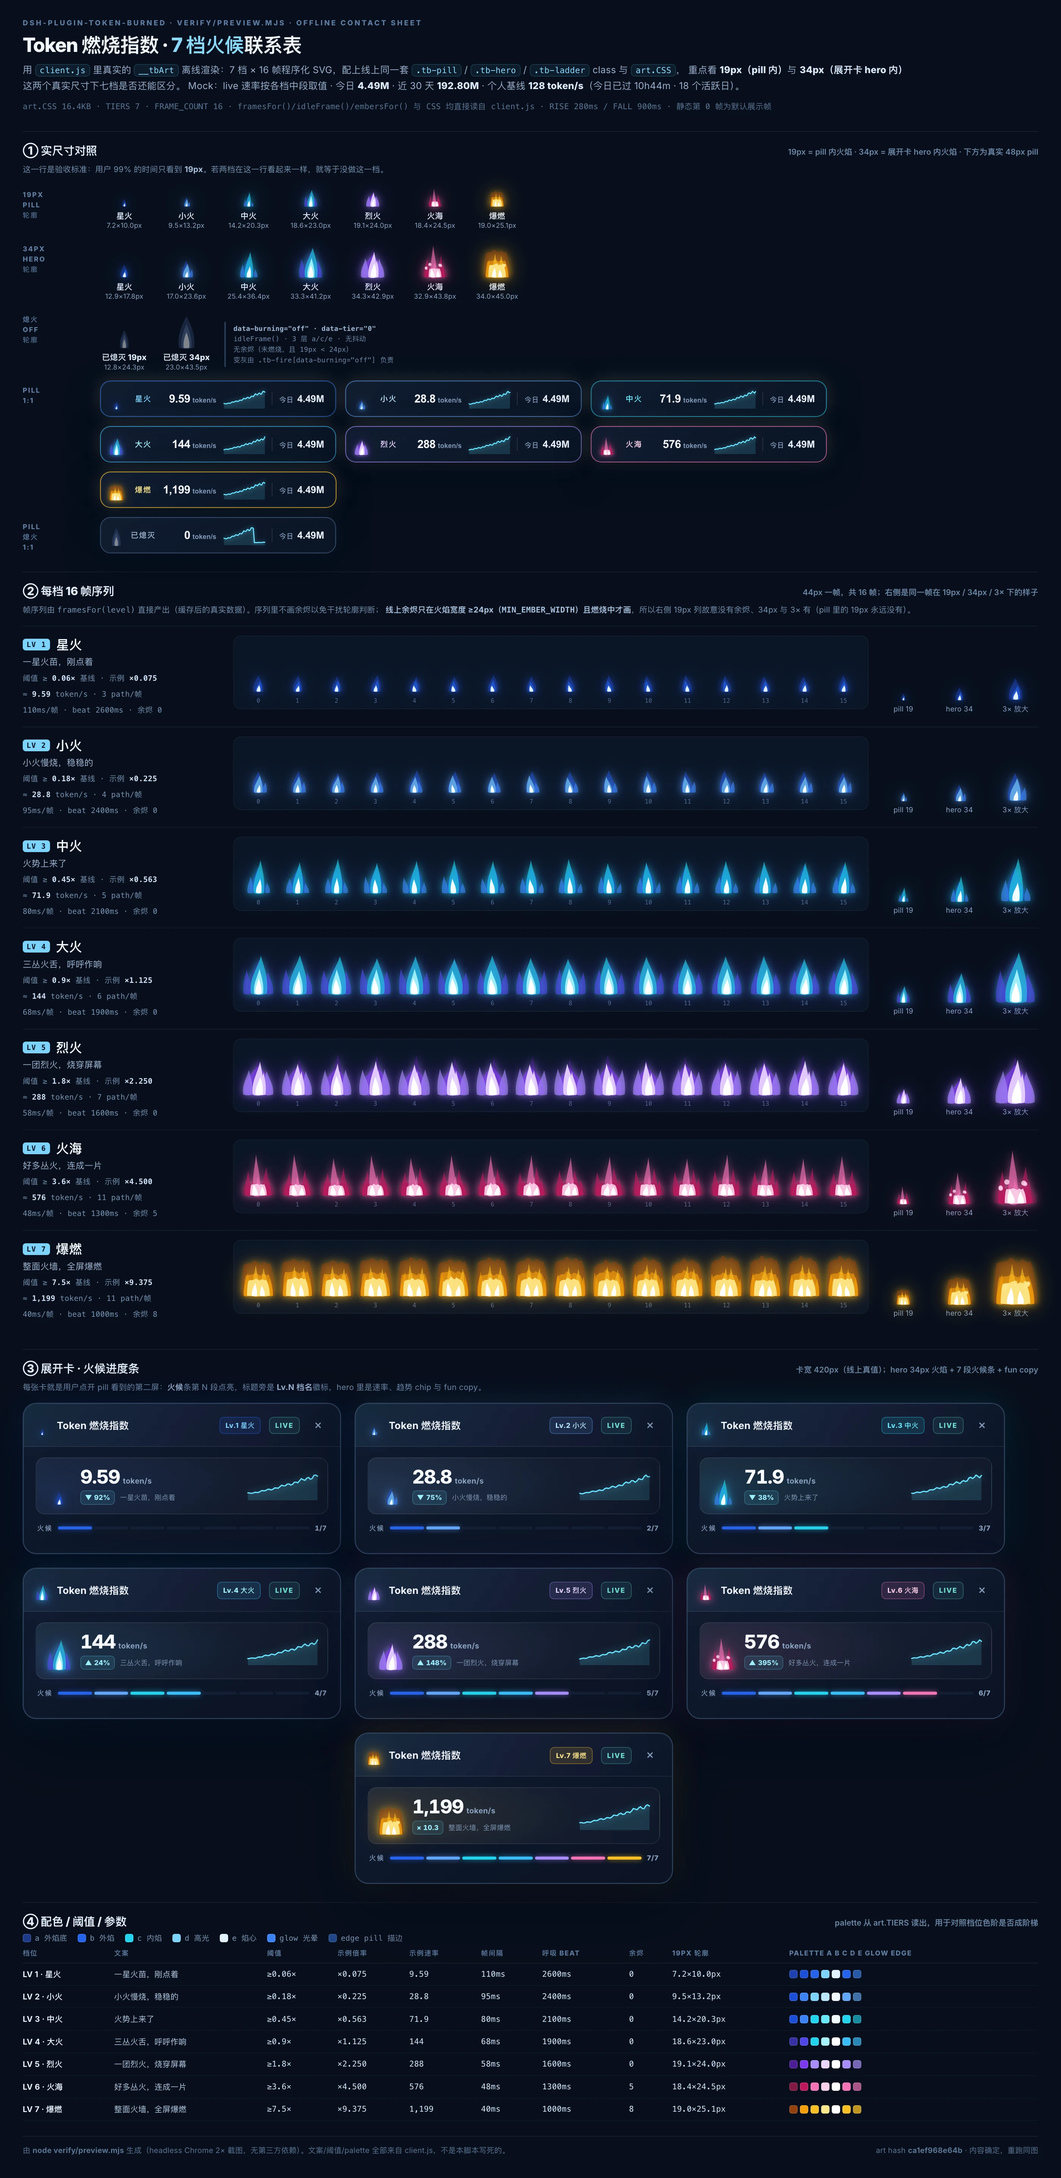
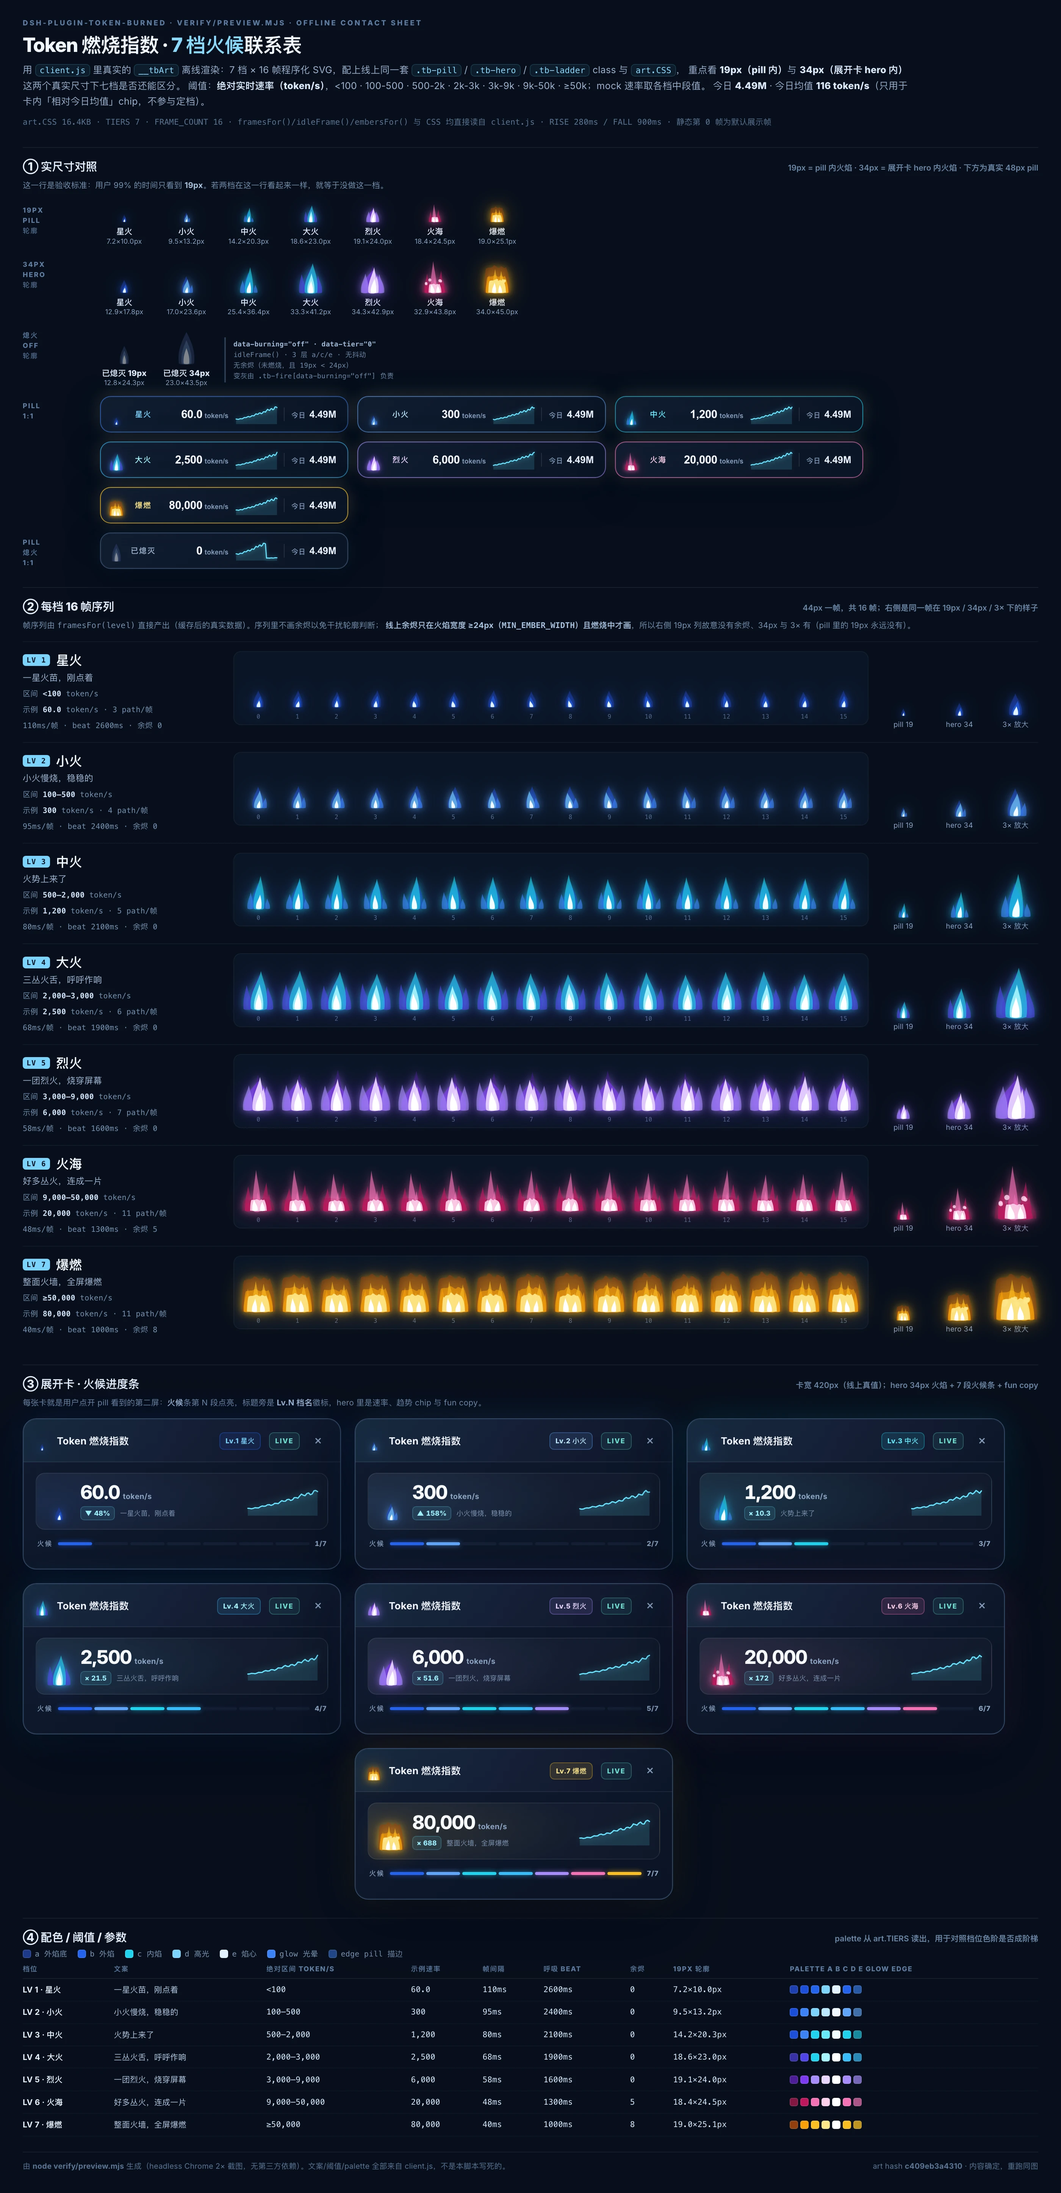
feat: pick burn tiers from absolute token/s, not a personal baseline
The relative ratio was clever but confusing in practice: the dock regularly
reads 20k+ token/s (the rate sums input + cache read/write + output, and
cache reads dominate), so "燃烧比 1.8× 基线" said nothing a user could map
to what the pill shows. Tiers are now plain absolute cut-offs:

  <100 星火 · 100-500 小火 · 500-2k 中火 · 2k-3k 大火 · 3k-9k 烈火
  · 9k-50k 火海 · >=50k 爆燃   (token/s)

So 20k/s always shows 火海 and 爆燃 needs a real 50k+ burst.

- client.js: TIERS[].minRatio -> minRate (0/100/500/2000/3000/9000/50000),
  tierOf(rate) takes the rate only; burnBaseline() and DAY_SECONDS are
  gone. The tier is still gated on the first live samples so a reload
  cannot fake a burning tier from today's average.
- `.tb-rate b` slot widened 36px -> 52px with tabular-nums: absolute rates
  cross 10k (6 digits) and 100k (7 digits) often enough to visibly resize
  the dock, and 52px keeps every pill identical width through the whole
  ladder (sub-pixel residue only).
- verify/tiers.mjs: tier table now asserts minRate and strict monotonic
  thresholds; tierOf tests cover the exact boundaries (20k = 火海,
  50k = 爆燃, 200k clamps), monotonicity over 0..200k, the 0.01 noise
  floor, and NaN/Infinity garbage; checkBurnBaseline removed.
- verify/preview.mjs: mock rates are absolute mid-band values (60 / 300 /
  1,200 / 2,500 / 6,000 / 20,000 / 80,000), the sheet header states the
  absolute ladder, section ② ranges come from TIERS[i].minRate, and each
[…]

diff --git a/client.js b/client.js
@@ -19,7 +19,6 @@ window.__ModuleLoader__.load({
     const FIRE_VB = '0 0 64 96';
     const FIRE_BASE = 94;
     const LIVE_EPSILON = 0.01;
-    const DAY_SECONDS = 86400;
     // Tier hysteresis: flare up fast, cool down slowly.
     const RISE_MS = 280;
     const FALL_MS = 900;
@@ -27,9 +26,11 @@ window.__ModuleLoader__.load({
     // only drawn in the expanded card's hero flame, not in the 19px capsule.
     const MIN_EMBER_WIDTH = 24;
 
-    // Seven burn tiers. The level comes from a *relative* ratio (live token/s ÷
-    // the viewer's own 30-day baseline), so a light user and a heavy user both
-    // get the whole ladder instead of one fixed token/s scale.
+    // Seven burn tiers, picked by the live token/s rate itself (absolute
+    // cut-offs, not a ratio): the rate already sums input + cache read/write +
+    // output, so a normal "cache-heavy" coding session sits around 5-30k
+    // token/s and only a real burst reaches 50k+. Cut-offs:
+    //   <100 · 100-500 · 500-2k · 2k-3k · 3k-9k · 9k-50k · ≥50k token/s
     //
     // Each tier is its own 16-frame procedural sequence with its own palette,
     // glow, flicker speed and tongue layout — that is the fun part:
@@ -43,7 +44,7 @@ window.__ModuleLoader__.load({
     const TIERS = [
       {
         level: 1, key: 'spark', name: '星火', desc: '一星火苗，刚点着',
-        minRatio: 0.06, frameMs: 110, beat: 2600, sparks: 0,
+        minRate: 0, frameMs: 110, beat: 2600, sparks: 0,
         palette: { a: '#1e40af', b: '#1d4ed8', c: '#2563eb', d: '#7dd3fc', e: '#e0f2fe', glow: '#2563eb', glow2: '#1d4ed8', edge: '#3b82f6a0' },
         shapes: [
           { kind: 'tongue', layer: 'a', cx: 32, hw: 9, ht: 30, amp: 2.4, jitter: 1.2, phase: 0.02, bulge: 1.1 },
@@ -53,7 +54,7 @@ window.__ModuleLoader__.load({
       },
       {
         level: 2, key: 'ember', name: '小火', desc: '小火慢烧，稳稳的',
-        minRatio: 0.18, frameMs: 95, beat: 2400, sparks: 0,
+        minRate: 100, frameMs: 95, beat: 2400, sparks: 0,
         palette: { a: '#1d4ed8', b: '#3b82f6', c: '#7dd3fc', d: '#bae6fd', e: '#f0f9ff', glow: '#60a5fa', glow2: '#3b82f6', edge: '#60a5faa0' },
         shapes: [
           { kind: 'tongue', layer: 'a', cx: 32, hw: 11, ht: 40, amp: 2.6, jitter: 1.4, phase: 0.03, bulge: 1.12 },
@@ -64,7 +65,7 @@ window.__ModuleLoader__.load({
       },
       {
         level: 3, key: 'blaze', name: '中火', desc: '火势上来了',
-        minRatio: 0.45, frameMs: 80, beat: 2100, sparks: 0,
+        minRate: 500, frameMs: 80, beat: 2100, sparks: 0,
         palette: { a: '#1d4ed8', b: '#3b82f6', c: '#22d3ee', d: '#67e8f9', e: '#f0fdff', glow: '#22d3ee', glow2: '#3b82f6', edge: '#22d3eea0' },
         shapes: [
           { kind: 'tongue', layer: 'a', cx: 32, hw: 14, ht: 52, amp: 3, jitter: 1.6, phase: 0.02, bulge: 1.12 },
@@ -76,7 +77,7 @@ window.__ModuleLoader__.load({
       },
       {
         level: 4, key: 'flame', name: '大火', desc: '三丛火舌，呼呼作响',
-        minRatio: 0.9, frameMs: 68, beat: 1900, sparks: 0,
+        minRate: 2000, frameMs: 68, beat: 1900, sparks: 0,
         palette: { a: '#3730a3', b: '#4f46e5', c: '#22d3ee', d: '#a5f3fc', e: '#ffffff', glow: '#38bdf8', glow2: '#4f46e5', edge: '#38bdf8b0' },
         shapes: [
           { kind: 'tongue', layer: 'a', cx: 32, hw: 19, ht: 62, amp: 3.4, jitter: 1.8, phase: 0.01, bulge: 1.14 },
@@ -89,7 +90,7 @@ window.__ModuleLoader__.load({
       },
       {
         level: 5, key: 'inferno', name: '烈火', desc: '一团烈火，烧穿屏幕',
-        minRatio: 1.8, frameMs: 58, beat: 1600, sparks: 0,
+        minRate: 3000, frameMs: 58, beat: 1600, sparks: 0,
         palette: { a: '#4c1d95', b: '#7c3aed', c: '#a78bfa', d: '#e9d5ff', e: '#ffffff', glow: '#a78bfa', glow2: '#6d28d9', edge: '#a78bfab0' },
         shapes: [
           { kind: 'tongue', layer: 'a', cx: 32, hw: 12, ht: 72, amp: 3.2, jitter: 1.4, phase: 0.02, bulge: 1.15 },
@@ -103,7 +104,7 @@ window.__ModuleLoader__.load({
       },
       {
         level: 6, key: 'sea', name: '火海', desc: '好多丛火，连成一片',
-        minRatio: 3.6, frameMs: 48, beat: 1300, sparks: 5,
+        minRate: 9000, frameMs: 48, beat: 1300, sparks: 5,
         palette: { a: '#831843', b: '#be185d', c: '#f472b6', d: '#fbcfe8', e: '#ffffff', glow: '#f472b6', glow2: '#be185d', edge: '#f472b6b0' },
         shapes: [
           { kind: 'wall', layer: 'a', x0: 1, x1: 63, ht: 25, amp: 2.6, jitter: 1.4, phase: 0.05 },
@@ -121,7 +122,7 @@ window.__ModuleLoader__.load({
       },
       {
         level: 7, key: 'blast', name: '爆燃', desc: '整面火墙，全屏爆燃',
-        minRatio: 7.5, frameMs: 40, beat: 1000, sparks: 8,
+        minRate: 50000, frameMs: 40, beat: 1000, sparks: 8,
         palette: { a: '#92400e', b: '#f59e0b', c: '#fbbf24', d: '#fde68a', e: '#ffffff', glow: '#fbbf24', glow2: '#f59e0b', edge: '#fbbf24c0' },
         shapes: [
           { kind: 'wall', layer: 'a', x0: 0, x1: 64, ht: 72, amp: 3, jitter: 1.8, phase: 0.02 },
@@ -187,7 +188,7 @@ window.__ModuleLoader__.load({
       .tb-hot{display:inline-block;min-width:34px;color:#9fb4d0;font-size:10px;font-weight:800;letter-spacing:.1em;text-transform:uppercase;white-space:nowrap}
       .tb-pill[data-burning="on"] .tb-hot{color:#a9ecff}
       .tb-rate{display:inline-flex;align-items:baseline;gap:3px;font-variant-numeric:tabular-nums;white-space:nowrap}
-      .tb-rate b{display:inline-block;min-width:36px;text-align:right;font-size:15px;font-weight:800;color:#f4f8ff;letter-spacing:-.02em}
+      .tb-rate b{display:inline-block;min-width:52px;text-align:right;font-size:15px;font-weight:800;color:#f4f8ff;letter-spacing:-.02em}
       .tb-unit{font-size:9px;font-weight:700;color:#7f96b5}
       .tb-sep{width:1px;height:18px;background:#ffffff1c;flex:0 0 auto}
       .tb-group{display:inline-flex;align-items:baseline;gap:5px;white-space:nowrap;min-width:0}
@@ -459,35 +460,15 @@ window.__ModuleLoader__.load({
       return frames;
     }
 
-    // The viewer's own "normal" burn rate, in token/s. Dividing by it (instead
-    // of using absolute token/s cut-offs) keeps the ladder useful for a light
-    // user and a heavy user alike. Today counts only the seconds elapsed so
-    // far, otherwise a fresh install would look 100x hotter than it is.
-    function burnBaseline(snapshot, nowMs) {
-      const snap = snapshot || {};
-      const total30 = Number(snap.recent30) || 0;
-      if (!(total30 > 0)) return 0;
-      const days = Array.isArray(snap.days) ? snap.days.map((v) => Number(v) || 0) : [];
-      const active = days.filter((v) => v > 0).length;
-      const at = Number(nowMs) || Date.now();
-      const dayStart = new Date(at);
-      dayStart.setHours(0, 0, 0, 0);
-      const elapsed = Math.max(60, (at - dayStart.getTime()) / 1000);
-      const todayKnown = days.length > 0 && days[days.length - 1] > 0;
-      // Today only has `elapsed` seconds of history, so it must not be counted
-      // as a full day or the baseline would be muted by the rest of the day.
-      const seconds = Math.max(60, active * DAY_SECONDS - (todayKnown ? DAY_SECONDS - elapsed : 0));
-      return total30 / seconds;
-    }
-
-    function tierOf(rate, baseline) {
+    // Absolute cut-offs keep the ladder boringly predictable: whatever the
+    // history looks like, 20k token/s always shows 火海 and 50k+ shows 爆燃.
+    // TIERS[0].minRate is 0, so any non-noise rate lights at least 星火.
+    function tierOf(rate) {
       const value = Number(rate);
       if (!(value > LIVE_EPSILON)) return 0;
-      const base = Math.max(Number(baseline) || 0, 0.5);
-      const ratio = value / base;
       let level = 1;
       for (let i = 0; i < TIERS.length; i += 1) {
-        if (ratio >= TIERS[i].minRatio) level = TIERS[i].level;
+        if (value >= TIERS[i].minRate) level = TIERS[i].level;
       }
       return level;
     }
@@ -513,8 +494,8 @@ window.__ModuleLoader__.load({
 
     // Fire flares up quickly and cools down slowly, so a short burst reads as a
     // flare instead of the dock slamming between levels on every poll.
-    function useTier(rate, baseline) {
-      const target = tierOf(rate, baseline);
+    function useTier(rate) {
+      const target = tierOf(rate);
       const [tier, setTier] = useState(target);
       useEffect(() => {
         if (target === tier) return undefined;
@@ -702,12 +683,9 @@ window.__ModuleLoader__.load({
       const seconds = Math.max(60, (now - dayStart.getTime()) / 1000);
       const dailyAvg = total / seconds;
       const liveRate = rate > LIVE_EPSILON ? rate : (primed ? 0 : dailyAvg);
-      // Burn tier: relative to the viewer's own 30-day baseline so the whole
-      // ladder stays reachable whether they burn 50 or 200k token/s.
-      const baseline = burnBaseline(snapshot, now);
       // Before the first few polls `liveRate` falls back to today's average, which
       // is fine for the number but would invent a burning tier on every reload.
-      const tier = useTier(primed ? liveRate : 0, baseline);
+      const tier = useTier(primed ? liveRate : 0);
       const burning = tier > 0;
       const tierInfo = burning ? TIERS[tier - 1] : null;
       // Huge ratios (a burst against a whole-day average) are meaningless as a
@@ -876,7 +854,7 @@ window.__ModuleLoader__.load({
     return {
       apply,
       inject: ['slots'],
-      __tbArt: { TIERS, FRAME_COUNT, RISE_MS, FALL_MS, framesFor, idleFrame: () => IDLE_FRAME, embersFor, tierOf, burnBaseline, CSS },
+      __tbArt: { TIERS, FRAME_COUNT, RISE_MS, FALL_MS, framesFor, idleFrame: () => IDLE_FRAME, embersFor, tierOf, CSS },
     };
   },
 });

diff --git a/README.en.md b/README.en.md
@@ -24,28 +24,19 @@ A floating Token Burn Dock for DeepSeek Harness (DSH). It summarizes observable 
 
 ### Burn tiers
 
-The tier never looks at an absolute `token/s`. It looks at your **burn ratio relative to your own baseline**:
+Tiers are picked by **absolute `token/s` cut-offs** — the rate is stable and predictable: around 20k/s is 火海 (Inferno), and only 50k/s and up is 爆燃 (Detonation).
 
-```text
-burn ratio = live rate (token/s) ÷ personal baseline (token/s)
-baseline   = last-30-day total ÷ effective seconds
-effective seconds (today already has data) = (days with data − 1) × 86400 + seconds elapsed today
-effective seconds (today has no data yet)  = days with data × 86400
-```
+The live rate counts **all provider-usage tokens**: **input + cache read/write + output**. Cache reads usually dominate, so a normal coding session already runs at 10k–30k `token/s` — that is not an anomaly. 7 burning tiers plus `已熄灭`:
 
-When today has no data yet, today is not part of "days with data", so it is simply left out of the sum — subtracting the elapsed-time term there would count today's empty hours twice and inflate the baseline.
-
-So the tiers work for light and heavy users alike — nobody has to hard-code rate thresholds per user. 7 burning tiers plus `已熄灭`:
-
-| Tier | Burn ratio | Flame | One-liner |
+| Tier | Live rate (token/s) | Flame | One-liner |
 | --- | --- | --- | --- |
-| 1 星火 (Spark) | ≥ 0.06 | single small tongue, slow flicker | 一星火苗，刚点着 — a lone spark, just lit |
-| 2 小火 (Low) | ≥ 0.18 | tongue + inner core | 小火慢烧，稳稳的 — a low, steady burn |
-| 3 中火 (Medium) | ≥ 0.45 | twin outer tongues | 火势上来了 — it's building up |
-| 4 大火 (High) | ≥ 0.9 | three tongue layers + bright inner flame | 三丛火舌，呼呼作响 — three tongues roaring |
-| 5 烈火 (Blaze) | ≥ 1.8 | wide fire body + many tongues | 一团烈火，烧穿屏幕 — a blaze burning through the screen |
-| 6 火海 (Inferno) | ≥ 3.6 | three clusters + bottom fire wall + embers | 好多丛火，连成一片 — clusters merging into one |
-| 7 爆燃 (Detonation) | ≥ 7.5 | full-width fire wall + many tongues + embers | 整面火墙，全屏爆燃 — the whole screen detonates |
+| 1 星火 (Spark) | < 100 | single small tongue, slow flicker | 一星火苗，刚点着 — a lone spark, just lit |
+| 2 小火 (Low) | 100 – 500 | tongue + inner core | 小火慢烧，稳稳的 — a low, steady burn |
+| 3 中火 (Medium) | 500 – 2,000 | twin outer tongues | 火势上来了 — it's building up |
+| 4 大火 (High) | 2,000 – 3,000 | three tongue layers + bright inner flame | 三丛火舌，呼呼作响 — three tongues roaring |
+| 5 烈火 (Blaze) | 3,000 – 9,000 | wide fire body + many tongues | 一团烈火，烧穿屏幕 — a blaze burning through the screen |
+| 6 火海 (Inferno) | 9,000 – 50,000 | three clusters + bottom fire wall + embers | 好多丛火，连成一片 — clusters merging into one |
+| 7 爆燃 (Detonation) | ≥ 50,000 | full-width fire wall + many tongues + embers | 整面火墙，全屏爆燃 — the whole screen detonates |
 
 With no new burn it shows `已熄灭` (a static, desaturated icon).
 

diff --git a/README.md b/README.md
@@ -30,28 +30,19 @@ DSH 的悬浮 Token 燃烧指数 Dock：把全部 session 的 Token 使用量汇
 
 ### 火候档位
 
-火焰的档位不看绝对 `token/s`，而是看**相对你自己基线**的燃烧比：
+档位直接按**实时速率**（`token/s`）的绝对阈值判定，速率稳定可预期——2 万/s 左右是火海，5 万/s 以上才是爆燃。
 
-```text
-燃烧比 = 实时速率(token/s) ÷ 个人基线(token/s)
-个人基线 = 近 30 天总量 ÷ 有效秒数
-有效秒数（今日已有数据）= (有数据的天数 − 1) × 86400 + 今日已过秒数
-有效秒数（今日还没有数据）= 有数据的天数 × 86400
-```
+实时速率统计的是 provider usage 的**全量 token**：**输入 + 缓存读/写 + 输出**一起算。缓存读通常占大头，所以一次正常编码会话就会跑到 1–3 万 `token/s`，这不是异常。7 档燃烧 + `已熄灭`：
 
-今日还没有数据时，`有数据的天数` 本来就不含今天，直接按整天计即可；此时若再扣掉"今日已过秒数"，会把今天的空白时间重复扣一遍、把基线算高。
-
-所以轻用户和重度用户都能得到有意义的档位，不需要为不同人硬编码不同的速率门槛。7 档燃烧 + `已熄灭`：
-
-| 档位 | 燃烧比 | 火焰 | 一句文案 |
+| 档位 | 实时速率（token/s） | 火焰 | 一句文案 |
 | --- | --- | --- | --- |
-| 1 星火 | ≥ 0.06 | 单苗小焰，慢闪 | 一星火苗，刚点着 |
-| 2 小火 | ≥ 0.18 | 火苗 + 内芯 | 小火慢烧，稳稳的 |
-| 3 中火 | ≥ 0.45 | 双舌外焰 | 火势上来了 |
-| 4 大火 | ≥ 0.9 | 三层火舌 + 高光内焰 | 三丛火舌，呼呼作响 |
-| 5 烈火 | ≥ 1.8 | 宽火团 + 多舌 | 一团烈火，烧穿屏幕 |
-| 6 火海 | ≥ 3.6 | 三簇并列 + 底部火墙 + 余烬 | 好多丛火，连成一片 |
-| 7 爆燃 | ≥ 7.5 | 满宽火墙 + 多舌 + 余烬 | 整面火墙，全屏爆燃 |
+| 1 星火 | < 100 | 单苗小焰，慢闪 | 一星火苗，刚点着 |
+| 2 小火 | 100 – 500 | 火苗 + 内芯 | 小火慢烧，稳稳的 |
+| 3 中火 | 500 – 2,000 | 双舌外焰 | 火势上来了 |
+| 4 大火 | 2,000 – 3,000 | 三层火舌 + 高光内焰 | 三丛火舌，呼呼作响 |
+| 5 烈火 | 3,000 – 9,000 | 宽火团 + 多舌 | 一团烈火，烧穿屏幕 |
+| 6 火海 | 9,000 – 50,000 | 三簇并列 + 底部火墙 + 余烬 | 好多丛火，连成一片 |
+| 7 爆燃 | ≥ 50,000 | 满宽火墙 + 多舌 + 余烬 | 整面火墙，全屏爆燃 |
 
 没有新增燃烧时显示 `已熄灭`（静态灰色图标）。
 

diff --git a/CHANGELOG.md b/CHANGELOG.md
@@ -5,22 +5,20 @@
 
 ## [0.3.0] — 2026-11-01
 
-火焰从"一档"变成 **7 档火候**：同一个速率，落在不同用户身上会给出不同档位。
+火焰从"一档"变成 **7 档火候**：从一点星火到整面火墙，实时速率越高，火焰档位越猛。
 
 ### Added
 
 - **火候档位（7 档燃烧 + `已熄灭`）**：星火 / 小火 / 中火 / 大火 / 烈火 / 火海 / 爆燃。
-  档位由**燃烧比**决定——实时速率 ÷ 个人基线，基线 = 近 30 天总量 ÷ 有效秒数。
-  有效秒数在**今日已有数据**时为（有数据的天数 − 1）× 86400 + 今日已过秒数，
-  在**今日还没有数据**时为 有数据的天数 × 86400（今日不计入天数，也不再扣已过秒数）。
-  用相对基线而非绝对 token/s，轻用户和重度用户的档位才都有意义。
+  档位由**实时速率（token/s）的绝对阈值**判定：<100 星火 / 100–500 小火 / 500–2k 中火 / 2k–3k 大火 / 3k–9k 烈火 / 9k–50k 火海 / ≥50k 爆燃。
+  速率含输入 + 缓存读写 + 输出 token，所以正常会话 1–3 万/s 属常态，5 万/s 以上才是真爆发。
 - 每档独立的 **16 帧程序化 SVG 序列**，各有自己的配色、发光、闪烁速度与火舌布局：
   星火单苗小焰 → 小火火苗+内芯 → 中火双舌外焰 → 大火三层火舌+高光内焰 → 烈火宽火团+多舌
   → 火海三簇并列+底部火墙+余烬 → 爆燃满宽火墙+多舌+余烬。仍无图片资源；
   配色递进为蓝 → 青 → 靛/白 → 紫 → 品红 → 金。
 - 收起胶囊直接显示档位名（不再是一句笼统的"燃烧中"），胶囊描边、火焰光晕与卡面光晕随档位染色。
 - 展开面板新增 **7 段火候进度条**与当前档位的一句文案。
-- 验证工具链：`npm run preview` 用 headless Chrome 渲染 7 档火候联系表（`docs/preview-tiers.webp`，真实 client.js 艺术层、真实 19px/34px 尺寸，无新增依赖）；`npm test` 现包含 `verify/tiers.mjs`（档位表/阈值、`tierOf`、`burnBaseline`、16 帧 SVG 合法性、每档 CSS、升/降档迟滞与熄灭态）。
+- 验证工具链：`npm run preview` 用 headless Chrome 渲染 7 档火候联系表（`docs/preview-tiers.webp`，真实 client.js 艺术层、真实 19px/34px 尺寸，无新增依赖）；`npm test` 现包含 `verify/tiers.mjs`（档位表/阈值、`tierOf`、16 帧 SVG 合法性、每档 CSS、升/降档迟滞与熄灭态）。
 
 ### Changed
 
